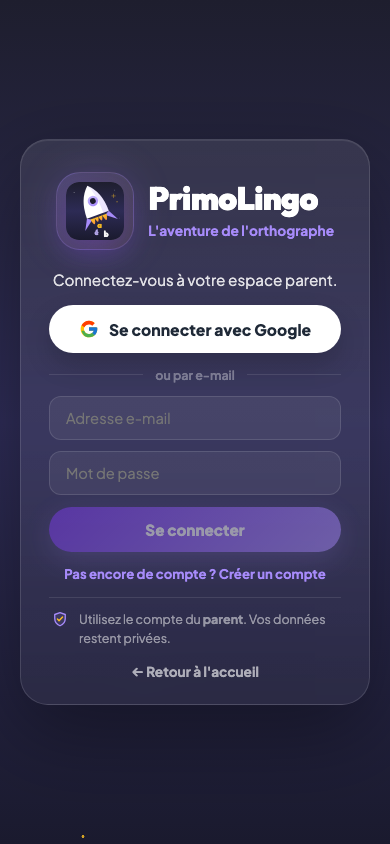
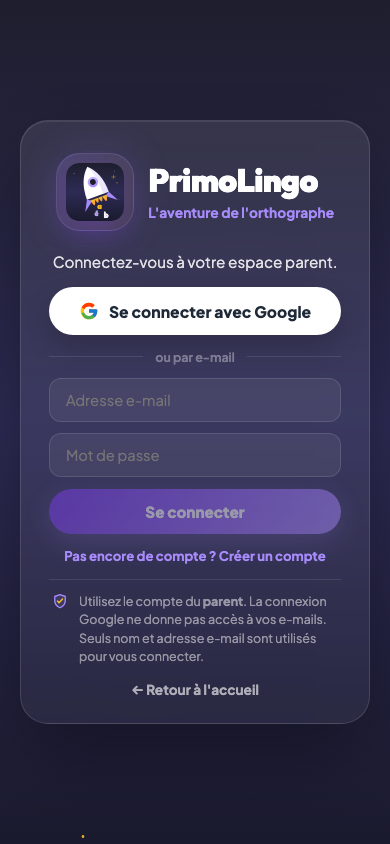
fix: prevent textarea re-render on input in doc annotations
The reply/response/comment textareas called saveAnnotations() which
triggered updateUI() on every keystroke, losing focus. Now all three
pass skipRender=true and saves are debounced (300ms).

Also updated login screenshot with new privacy note text.

Changed region(s): [[0.1231, 0.154, 0.8923, 0.8318], [0.9231, 0.154, 0.9538, 0.1848]]

diff --git a/orthographe-app/plugins/vite-plugin-docs.js b/orthographe-app/plugins/vite-plugin-docs.js
@@ -157,13 +157,17 @@ const HTML_TEMPLATE = (title, body, nav) => {
       .then(data => { annotations = data; renderAnnotations(); })
       .catch(() => {});
 
-    function saveAnnotations() {
-      fetch('/docs/api/annotations?slug=' + encodeURIComponent(ANN_SLUG), {
-        method: 'POST',
-        headers: { 'Content-Type': 'application/json' },
-        body: JSON.stringify(annotations),
-      }).catch(() => {});
-      updateUI();
+    let _saveTimer = null;
+    function saveAnnotations(skipRender) {
+      clearTimeout(_saveTimer);
+      _saveTimer = setTimeout(() => {
+        fetch('/docs/api/annotations?slug=' + encodeURIComponent(ANN_SLUG), {
+          method: 'POST',
+          headers: { 'Content-Type': 'application/json' },
+          body: JSON.stringify(annotations),
+        }).catch(() => {});
+      }, 300);
+      if (!skipRender) updateUI();
     }
 
     function updateUI() {
@@ -266,7 +270,7 @@ const HTML_TEMPLATE = (title, body, nav) => {
         textarea.placeholder = 'Votre commentaire...';
         textarea.addEventListener('input', function() {
           annotations[i].text = this.value;
-          saveAnnotations();
+          saveAnnotations(true);
         });
         textarea.addEventListener('click', function(e) { e.stopPropagation(); });
 
@@ -288,7 +292,7 @@ const HTML_TEMPLATE = (title, body, nav) => {
         respInput.placeholder = 'Ecrire une reponse...';
         respInput.addEventListener('input', function() {
           annotations[i].response = this.value;
-          saveAnnotations();
+          saveAnnotations(true);
         });
         respInput.addEventListener('click', function(e) { e.stopPropagation(); });
         responseBlock.appendChild(respInput);
@@ -306,8 +310,7 @@ const HTML_TEMPLATE = (title, body, nav) => {
         replyInput.placeholder = 'Ajouter un suivi...';
         replyInput.addEventListener('input', function() {
           annotations[i].reply = this.value;
-          saveAnnotations();
-          renderAnnotations();
+          saveAnnotations(true);
         });
         replyInput.addEventListener('click', function(e) { e.stopPropagation(); });
         replyBlock.appendChild(replyInput);
@@ -472,7 +475,7 @@ function getBannerSvg(emoji, accent, secondary) {
     case '✅':
       return `<svg ${cp}><circle cx="20" cy="20" r="14" fill="${accent}20" stroke="${accent}" stroke-width="2"/><path d="m13 20 4.5 4.5 9-9" stroke="${accent}" stroke-width="2.8" stroke-linecap="round" stroke-linejoin="round"/></svg>`;
     case '🧩':
-      return `<svg width="34" height="34" viewBox="0 0 640 640" fill="none"><path d="M288 64C323.3 64 352 85.5 352 112C352 122.4 347.6 132 340 139.9C333.4 146.8 328 155.2 328 164.8C328 179.8 340.2 192 355.2 192L400 192C426.5 192 448 213.5 448 240L448 284.8C448 299.8 460.2 312 475.2 312C484.7 312 493.2 306.6 500.1 300C508 292.5 517.6 288 528 288C554.5 288 576 316.7 576 352C576 387.3 554.5 416 528 416C517.6 416 507.9 411.6 500.1 404C493.2 397.4 484.8 392 475.2 392C460.2 392 448 404.2 448 419.2L448 528C448 554.5 426.5 576 400 576L343.2 576C330.4 576 320 565.6 320 552.8C320 543.6 325.8 535.5 333.2 530C344.8 521.3 352 509.3 352 496C352 469.5 323.3 448 288 448C252.7 448 224 469.5 224 496C224 509.3 231.2 521.3 242.8 530C250.2 535.5 256 543.5 256 552.8C256 565.6 245.6 576 232.8 576L112 576C85.5 576 64 554.5 64 528L64 407.2C64 394.4 74.4 384 87.2 384C96.4 384 104.5 389.8 110 397.2C118.7 408.8 130.7 416 144 416C170.5 416 192 387.3 192 352C192 316.7 170.5 288 144 288C130.7 288 118.7 295.2 110 306.8C104.5 314.2 96.5 320 87.2 320C74.4 320 64 309.6 64 296.8L64 240C64 213.5 85.5 192 112 192L220.8 192C235.8 192 248 179.8 248 164.8C248 155.3 242.6 146.8 236 139.9C228.5 132 224 122.4 224 112C224 85.5 252.7 64 288 64z" stroke="${accent}" stroke-width="32" stroke-linejoin="round"/><text x="300" y="410" text-anchor="middle" font-family="Fredoka, 'Plus Jakarta Sans', sans-serif" font-weight="600" font-size="220" fill="${accent}">?</text></svg>`;
+      return `<svg width="34" height="34" viewBox="0 0 640 640" fill="none"><path d="M288 64C323.3 64 352 85.5 352 112C352 122.4 347.6 132 340 139.9C333.4 146.8 328 155.2 328 164.8C328 179.8 340.2 192 355.2 192L400 192C426.5 192 448 213.5 448 240L448 284.8C448 299.8 460.2 312 475.2 312C484.7 312 493.2 306.6 500.1 300C508 292.5 517.6 288 528 288C554.5 288 576 316.7 576 352C576 387.3 554.5 416 528 416C517.6 416 507.9 411.6 500.1 404C493.2 397.4 484.8 392 475.2 392C460.2 392 448 404.2 448 419.2L448 528C448 554.5 426.5 576 400 576L343.2 576C330.4 576 320 565.6 320 552.8C320 543.6 325.8 535.5 333.2 530C344.8 521.3 352 509.3 352 496C352 469.5 323.3 448 288 448C252.7 448 224 469.5 224 496C224 509.3 231.2 521.3 242.8 530C250.2 535.5 256 543.5 256 552.8C256 565.6 245.6 576 232.8 576L112 576C85.5 576 64 554.5 64 528L64 407.2C64 394.4 74.4 384 87.2 384C96.4 384 104.5 389.8 110 397.2C118.7 408.8 130.7 416 144 416C170.5 416 192 387.3 192 352C192 316.7 170.5 288 144 288C130.7 288 118.7 295.2 110 306.8C104.5 314.2 96.5 320 87.2 320C74.4 320 64 309.6 64 296.8L64 240C64 213.5 85.5 192 112 192L220.8 192C235.8 192 248 179.8 248 164.8C248 155.3 242.6 146.8 236 139.9C228.5 132 224 122.4 224 112C224 85.5 252.7 64 288 64z" stroke="${accent}" stroke-width="32" stroke-linejoin="round"/><text x="300" y="410" text-anchor="middle" font-family="Fredoka, 'Plus Jakarta Sans', sans-serif" font-weight="600" font-size="220" fill="${accent}">?</text><circle cx="300" cy="400" r="20" fill="${accent}"/></svg>`;
     case '❤️':
       return `<svg ${cp}><path d="M20 32C20 32 6 22 6 13.5C6 9.4 9.1 6 13 6C15.7 6 18 7.7 20 10C22 7.7 24.3 6 27 6C30.9 6 34 9.4 34 13.5C34 22 20 32 20 32Z" fill="${accent}30" stroke="${accent}" stroke-width="2.2" stroke-linejoin="round"/></svg>`;
     default: